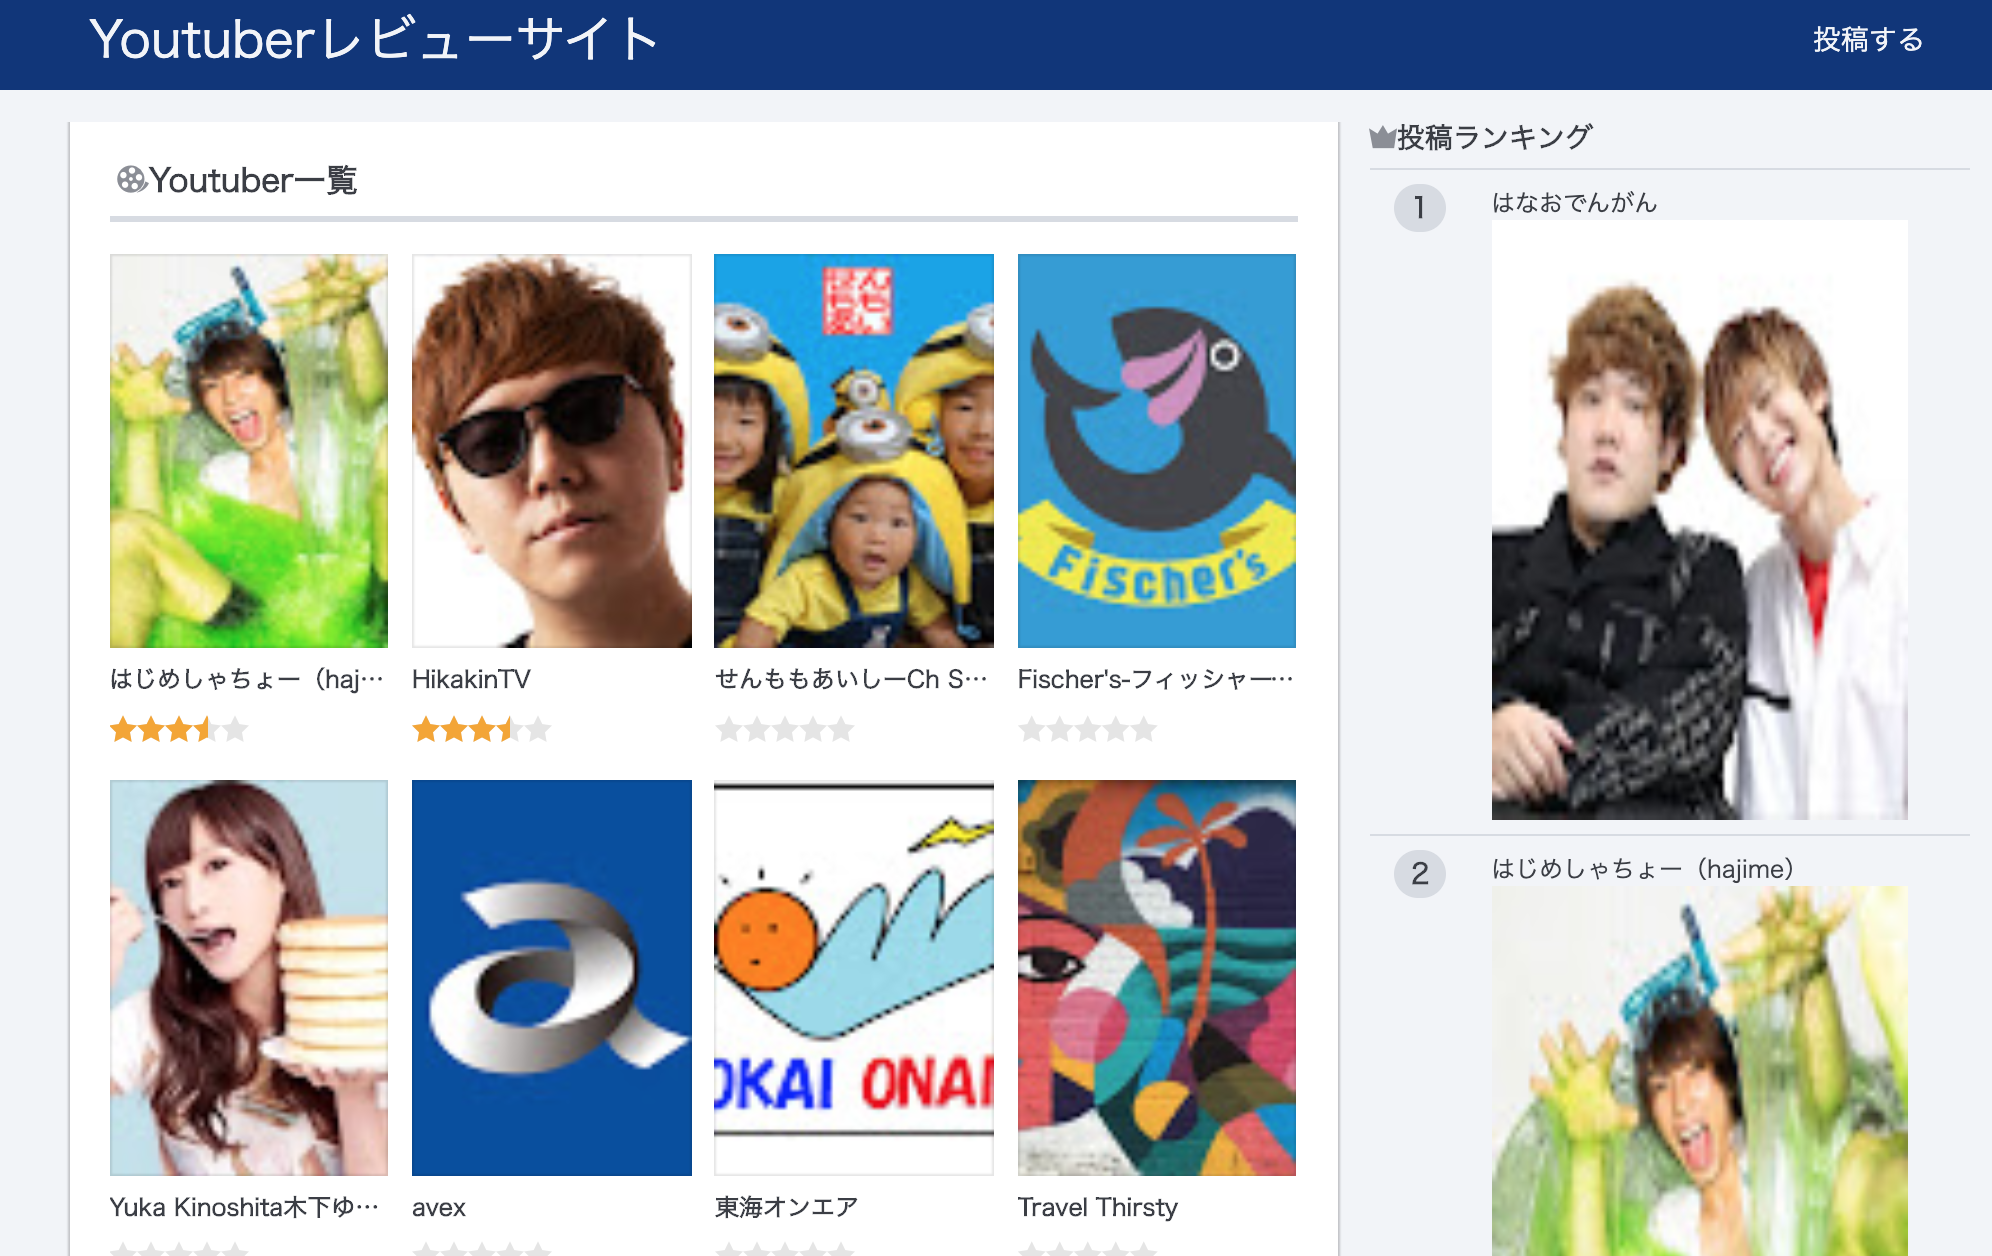
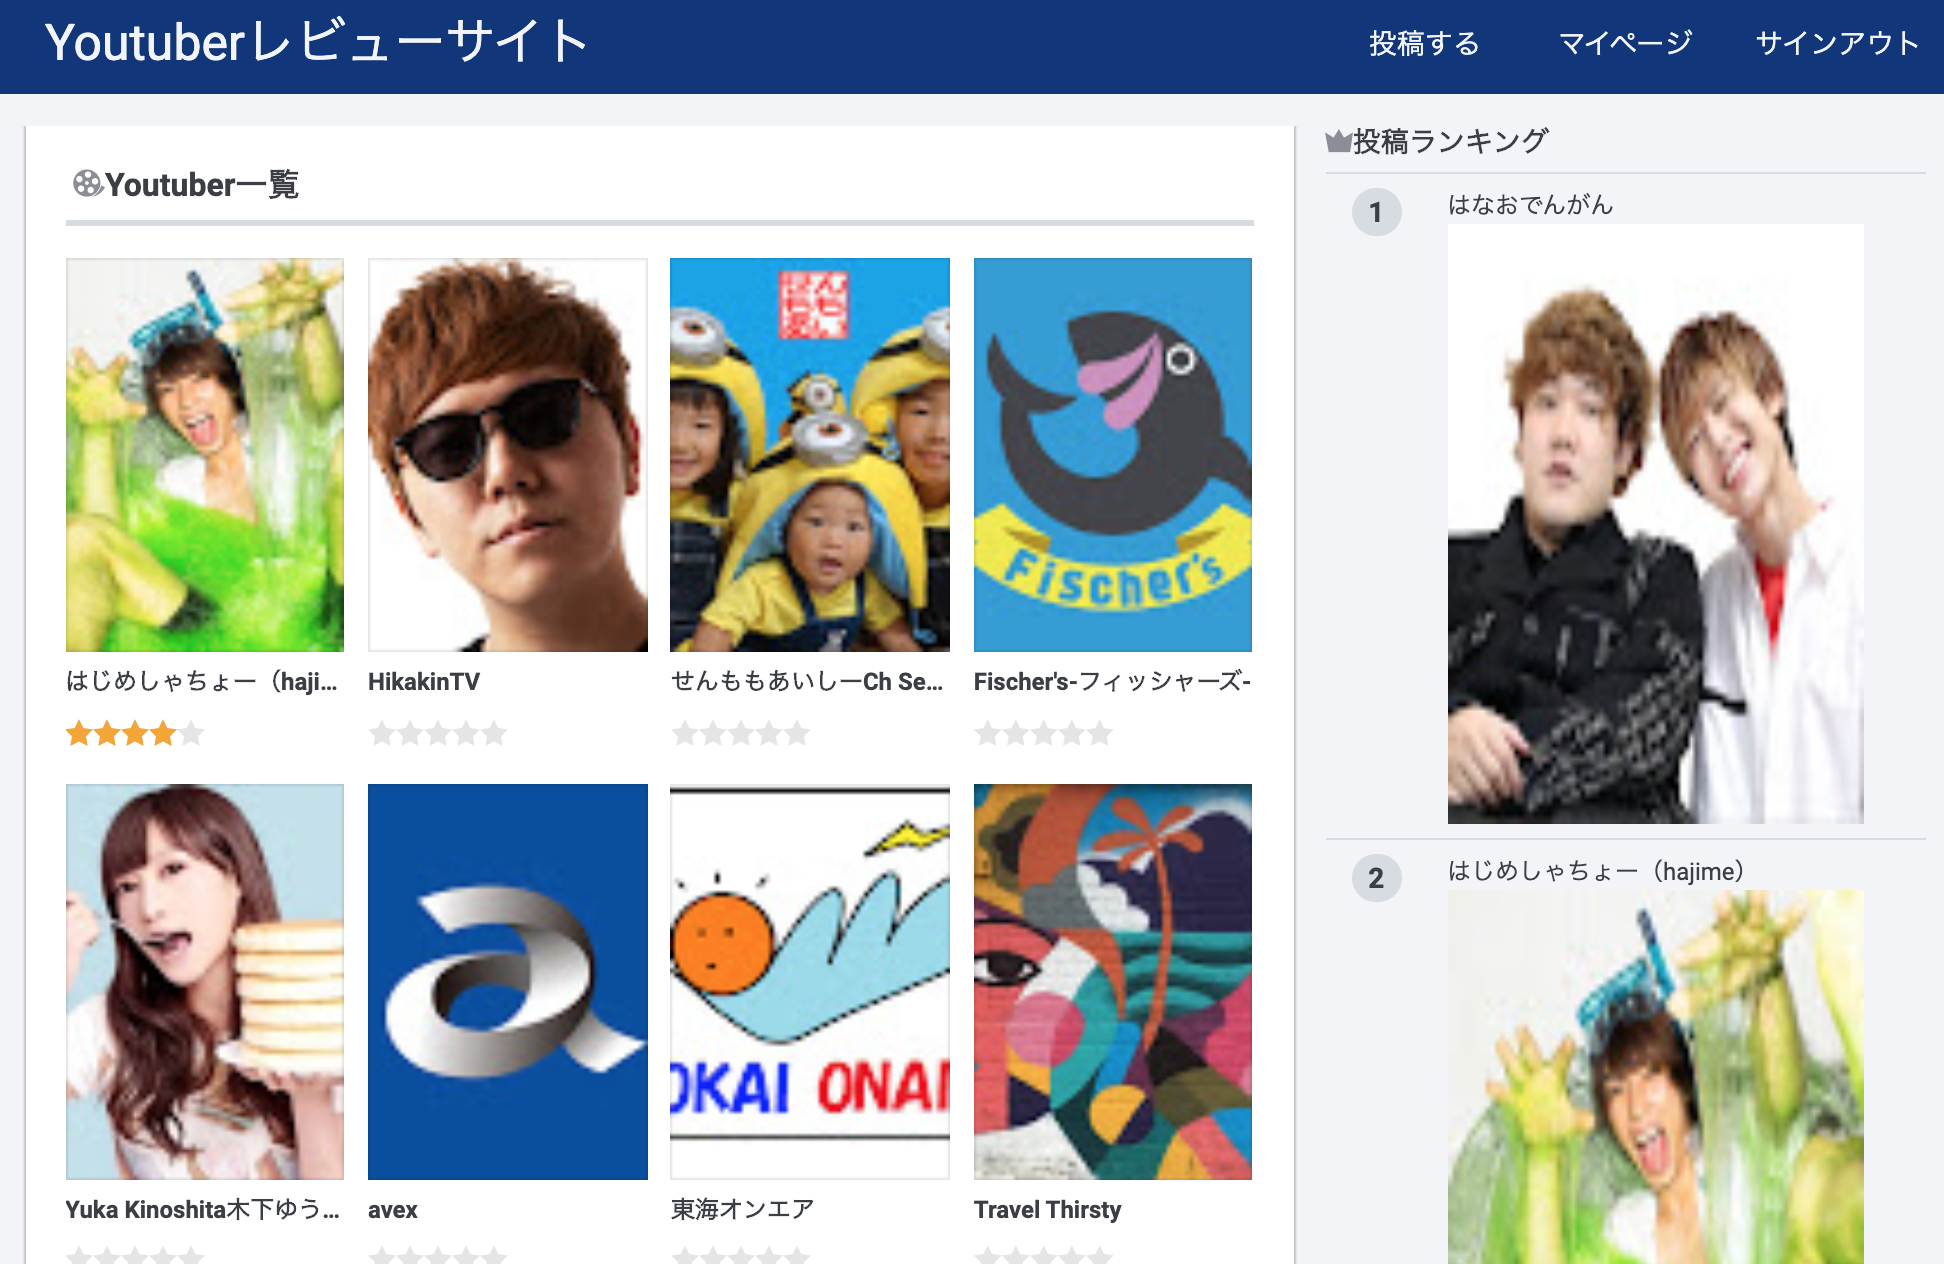
マイページ作成

diff --git a/app/assets/stylesheets/users.scss b/app/assets/stylesheets/users.scss
@@ -1,0 +1,3 @@
+// Place all the styles related to the users controller here.
+// They will automatically be included in application.css.
+// You can use Sass (SCSS) here: http://sass-lang.com/

diff --git a/config/routes.rb b/config/routes.rb
@@ -1,5 +1,6 @@
 Rails.application.routes.draw do
   devise_for :users
+  resources :users, only: :show
   resources :products, only: :show do
     resources :reviews, only: [:new, :create]
     collection do

diff --git a/test/controllers/users_controller_test.rb b/test/controllers/users_controller_test.rb
@@ -1,0 +1,7 @@
+require 'test_helper'
+
+class UsersControllerTest < ActionDispatch::IntegrationTest
+  # test "the truth" do
+  #   assert true
+  # end
+end

diff --git a/app/controllers/users_controller.rb b/app/controllers/users_controller.rb
@@ -1,0 +1,5 @@
+class UsersController < ApplicationController
+  def show
+    @user = User.find(params[:id])
+  end
+end

diff --git a/app/helpers/users_helper.rb b/app/helpers/users_helper.rb
@@ -1,0 +1,2 @@
+module UsersHelper
+end

diff --git a/README.md b/README.md
@@ -191,3 +191,8 @@ ReviewモデルとUserモデルのアソシエーションを設定するにはR
 $ docker-compose run web bundle exec rails g migration AddUserIdToReviews user_id:integer
 $ docker-compose run web bundle exec rake db:migrate
 ```
+
+### 7. マイページ作成
+```bash
+$ docker-compose run web bundle exec rails g controller users
+```
